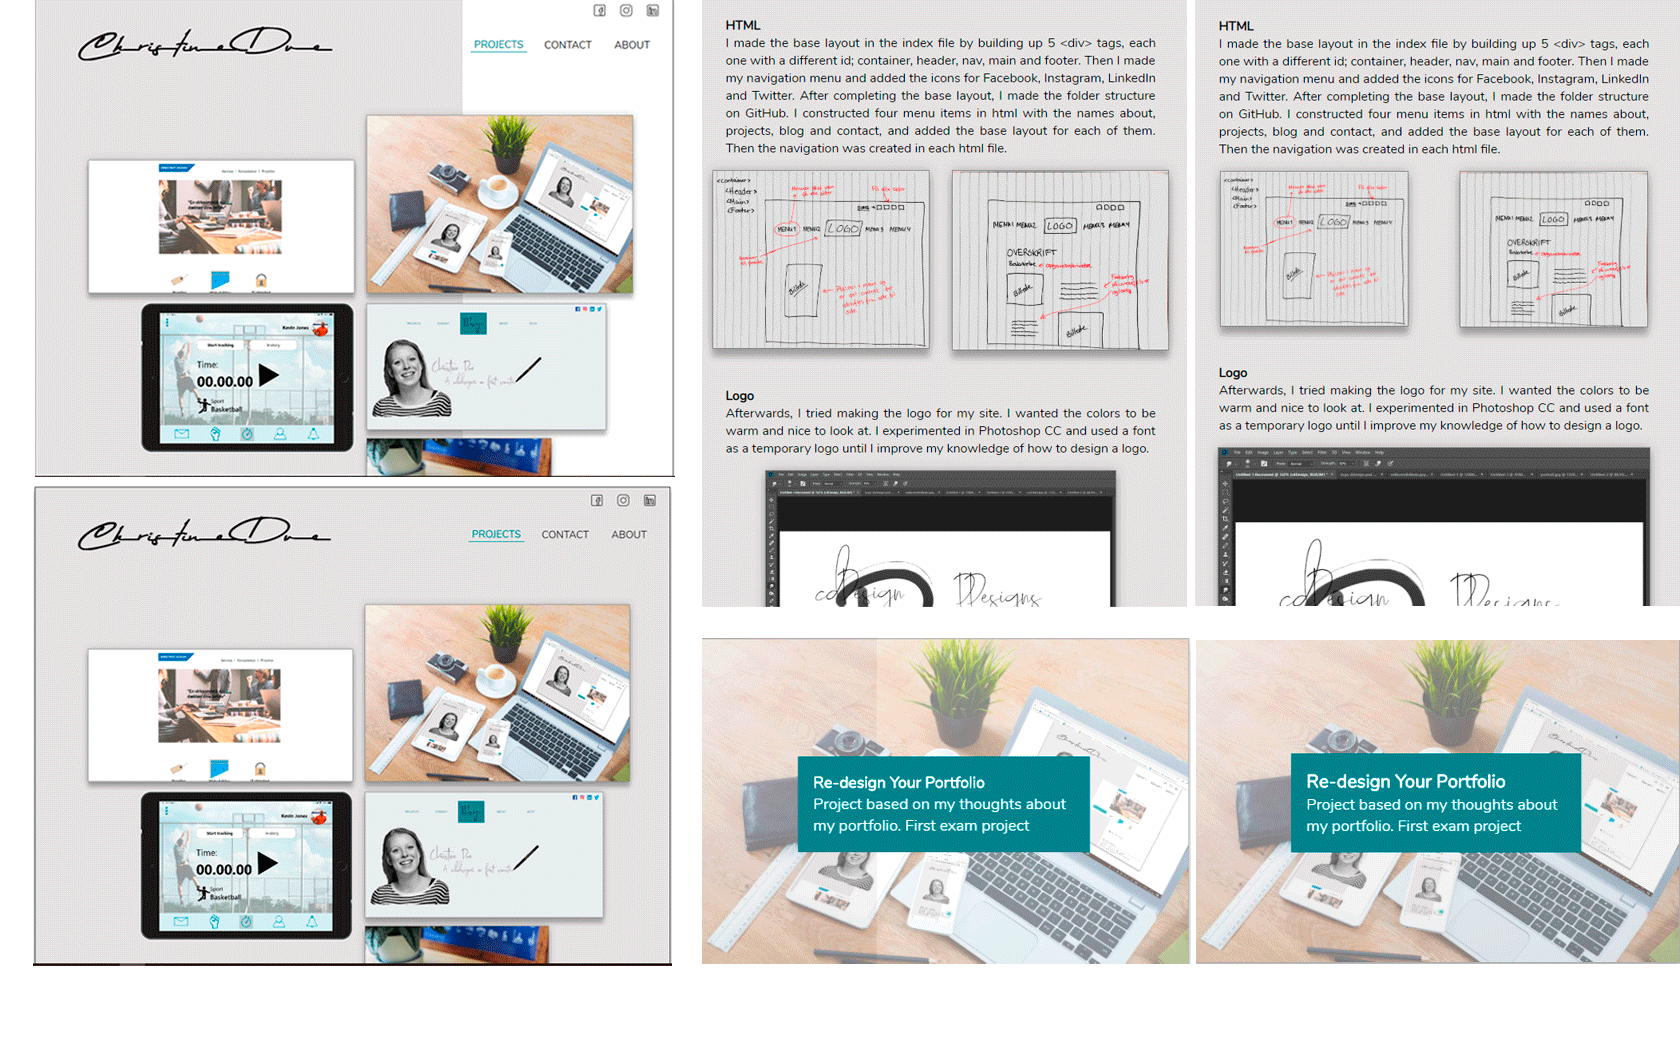
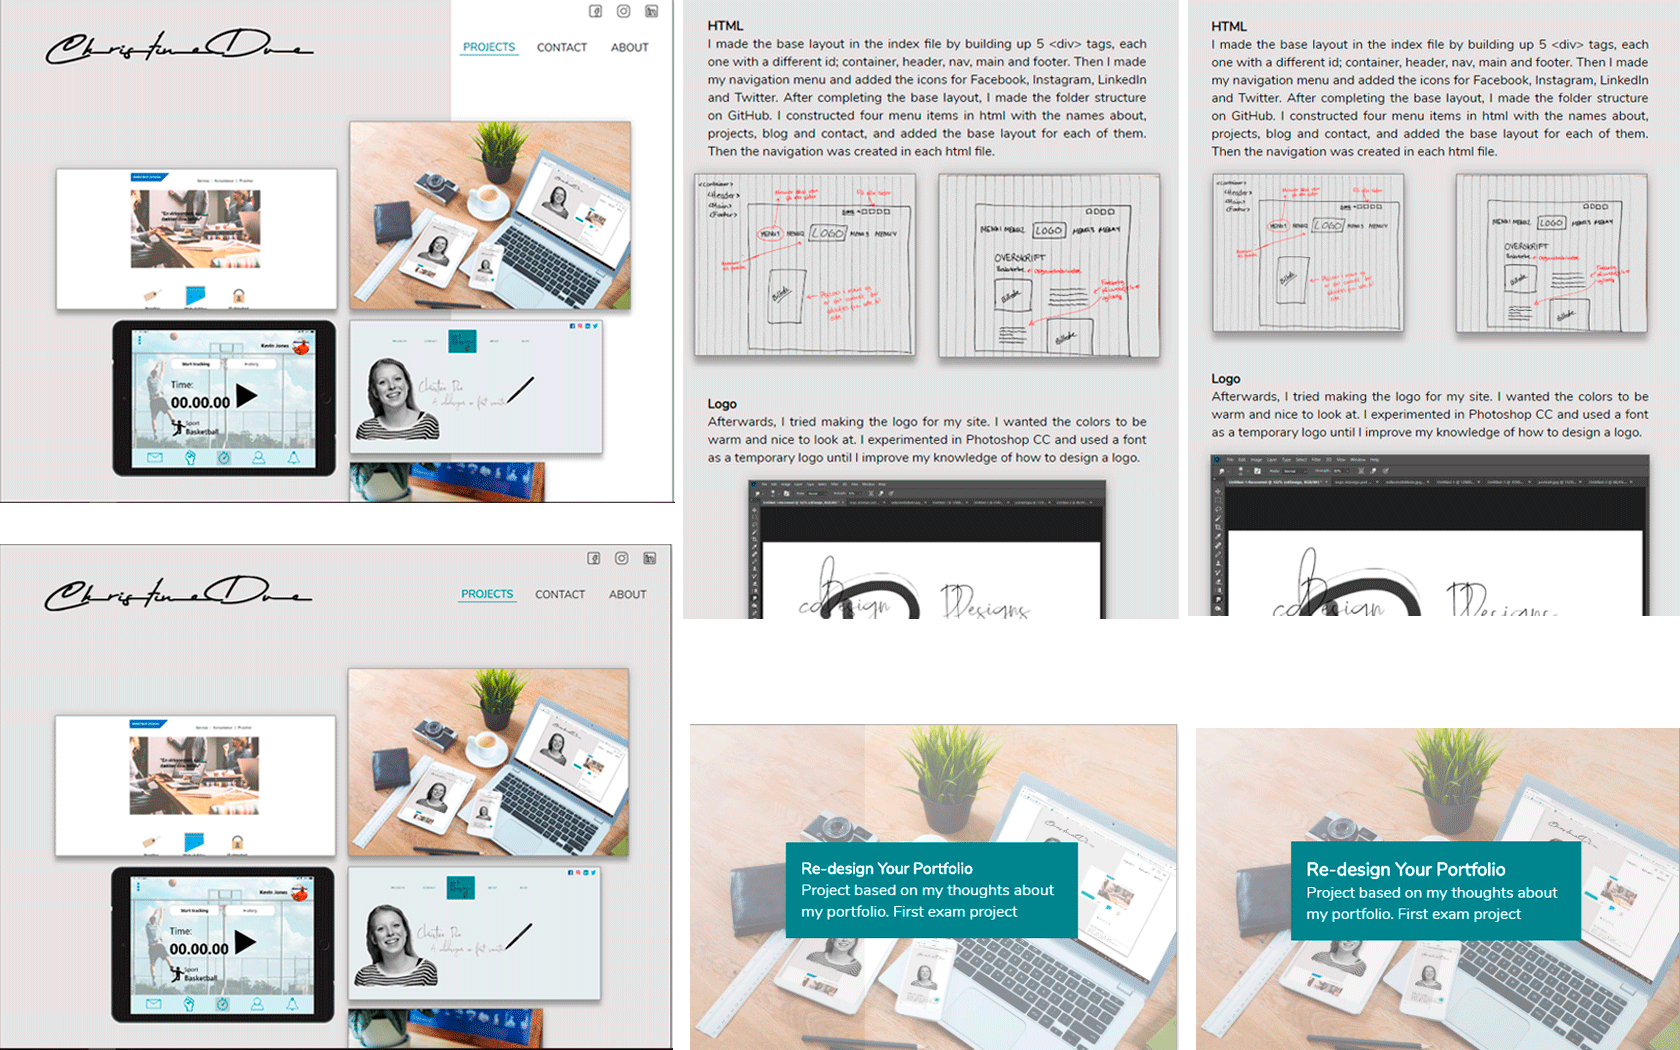
baggrund på telefon

diff --git a/styles/portfolio-version-two.css b/styles/portfolio-version-two.css
@@ -827,7 +827,8 @@ nav{
 }
 .containerforside {
     box-shadow: none;
-    background: linear-gradient(to left, white 0%, white 33%, #E4E2E2 33%, #E4E2E2 100%);
+   /* background: linear-gradient(to left, white 0%, white 33%, #E4E2E2 33%, #E4E2E2 100%);*/
+	background: #e4e2e2;
     border: none;
 }
 .logo img {
